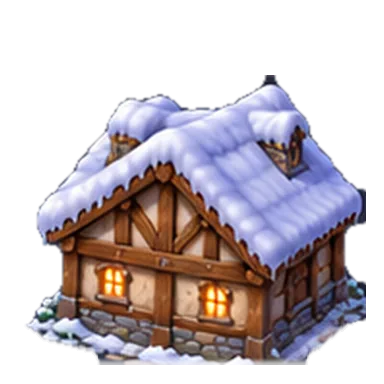
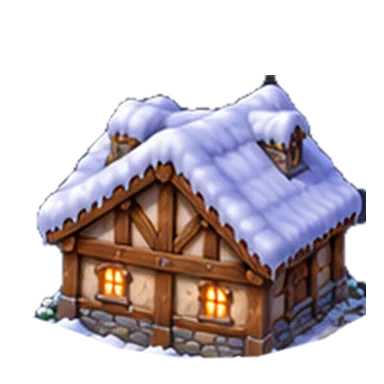
assets(exploration): remove loose snow-ground fragments and grey lantern backing
* chore(assets): export canonical building pixels for exact source-preserving cutout audit

* assets: isolate structural snow-house footprint and remove grey backing near lanterns

* ci(assets): run one-time guarded 20-sprite cleanup with checksum gate

* assets(exploration): remove loose ground and grey lantern cutout pixels

* chore(assets): remove temporary source-export and one-shot repair workflows

* docs(exploration): checkpoint scoped semantic cleanup and report unresolved embedded foliage

---------

Changed region(s): [[0.0625, 0.8125, 0.9062, 0.9688], [0.9062, 0.8125, 0.9688, 0.8438]]

diff --git a/scripts/cleanup-house-environment-pixels.py b/scripts/cleanup-house-environment-pixels.py
@@ -1,0 +1,103 @@
+#!/usr/bin/env python3
+"""One-time strict native-house cleanup. Edit alpha only; NEVER redraw roof/walls/windows.
+
+Author-supplied chalet and crystal/tent visual identities are frozen.
+Extracts stray snow/stone ground from 20 other snow-house canonical WebPs and
+removes solid grey art contamination behind pagoda lanterns. Source filenames
+and official IDs stay unchanged; all checksum ledgers are rewritten in place.
+"""
+from __future__ import annotations
+import hashlib, io, json, sys
+from pathlib import Path
+import numpy as np
+from PIL import Image, ImageDraw
+
+ROOT=Path(__file__).resolve().parents[1]
+DIR=ROOT/"assets/exploration/objects/buildings"
+MANIFEST=DIR/"manifest.snow-houses.v1.json"
+SUMS=DIR/"SHA256SUMS.snow-houses-v1.txt"
+PROTECT="building_house_snow_alpine_timber_2p5d_side_01.webp"
+SKIP={"ice_crystal","elven_crystal","nordic_tent"}
+LINES={
+"front":[(0,306),(45,325),(100,346),(161,355),(230,355),(301,340),(347,318),(384,307)],
+"side":[(0,301),(43,319),(102,346),(158,355),(229,352),(300,333),(363,304),(384,297)],
+"back":[(0,306),(53,323),(117,347),(185,358),(257,356),(324,338),(370,311),(384,305)]}
+PAGODA={
+"side":[(22,318),(55,331),(95,345),(156,354),(224,350),(281,329),(338,301),(370,295)],
+"front":[(22,317),(62,335),(105,342),(153,354),(206,357),(267,348),(326,347),(374,328)],
+"back":[(22,316),(67,329),(125,342),(185,352),(251,359),(310,346),(364,324)]}
+GREY_BACKING={
+"side":[[(47,211),(85,235),(81,307),(49,318)]],
+"front":[[(44,222),(87,249),(77,317),(41,319)],[(295,244),(365,241),(375,352),(320,354)]],
+"back":[[(40,205),(80,228),(79,318),(41,316)],[(329,207),(378,225),(381,331),(333,328)]]}
+
+def clean(image,variant,view):
+    original=np.asarray(image.convert("RGBA"),dtype=np.uint8)
+    data=original.copy()
+    H,W=data.shape[:2]
+    assert (H,W)==(384,384)
+    yy,xx=np.mgrid[:H,:W]
+    if variant=="east_pagoda":
+        polygons=Image.new("L",(W,H),0)
+        draw=ImageDraw.Draw(polygons)
+        for points in GREY_BACKING[view]: draw.polygon(points,fill=255)
+        region=np.asarray(polygons)>0
+        r,g,b,a=[data[:,:,i].astype(np.int16) for i in range(4)]
+        gray=(abs(r-g)<30)&(b-g>-5)&(b-r<30)&(r<138)&(g<139)&(b<151)&(a>0)
+        gray &= ~((r>g+20)|(r>b+23))
+        data[:,:,3][gray&region]=0
+        if view=="side": data[:,:,3][(xx>336)&(yy>287)&(b>r+5)&(r<200)]=0
+        elif view=="front":data[:,:,3][(xx>348)&(yy>299)&(b>r+5)]=0
+        else:data[:,:,3][(xx>351)&(yy>302)&(b>r+5)]=0
+    anchors=PAGODA[view] if variant=="east_pagoda" else LINES[view]
+    x,y=zip(*anchors)
+    floor=np.interp(np.arange(W),x,y)
+    factor=np.clip((floor[None,:]-yy+1.5)/3.0,0.0,1.0)
+    data[:,:,3]=np.uint8(np.rint(data[:,:,3].astype(float)*factor))
+    # Preserve every RGB pixel and the actual building silhouette at/above its floor line.
+    assert np.array_equal(original[:,:,:3],data[:,:,:3])
+    assert np.all(data[:,:,3] <= original[:,:,3])
+    assert np.array_equal(original[:290,:,3],data[:290,:,3]) if variant!="east_pagoda" else True
+    ratio=float(data[:,:,3].sum()/max(1,original[:,:,3].sum()))
+    if ratio<.90 or ratio>.998:
+        raise ValueError(f"Unexpected change to {variant}:{view}: alpha ratio {ratio:.5f}")
+    return Image.fromarray(data,"RGBA"),ratio
+
+def main():
+    doc=json.loads(MANIFEST.read_text(encoding="utf8"))
+    old_sums=SUMS.read_text(encoding="utf8")
+    if doc.get("modelCount")!=10 or len(doc.get("files",[]))!=30:
+        raise ValueError("unexpected house inventory")
+    updated=old_sums
+    changes=[]; protected=[]; bytes_before=bytes_after=0
+    for row in doc["files"]:
+        path=ROOT/row["path"]
+        raw=path.read_bytes()
+        old_hash=hashlib.sha256(raw).hexdigest()
+        if old_hash!=row["sha256"] or len(raw)!=row["bytes"] or f"{old_hash}  {row['path']}" not in old_sums:
+            raise ValueError(f"Source manifest stale: {path}")
+        filename=path.name
+        if filename==PROTECT or row["variant"] in SKIP:
+            protected.append((filename,old_hash));continue
+        original=Image.open(io.BytesIO(raw)).convert("RGBA")
+        output,ratio=clean(original,row["variant"],row["view"])
+        stream=io.BytesIO()
+        output.save(stream,format="WEBP",lossless=True,exact=True,method=6)
+        new=stream.getvalue()
+        new_hash=hashlib.sha256(new).hexdigest()
+        bytes_before+=len(raw);bytes_after+=len(new)
+        if new_hash==old_hash:raise ValueError(f"No real edit: {filename}")
+        path.write_bytes(new)
+        row["bytes"]=len(new)
+        row["sha256"]=new_hash
+        updated=updated.replace(f"{old_hash}  {row['path']}",f"{new_hash}  {row['path']}")
+        changes.append({"filename":filename,"old_sha":old_hash,"new_sha":new_hash,"before":len(raw),"after":len(new),"alpha_ratio":round(ratio,5)})
+    if len(changes)!=20 or len(protected)!=10:
+        raise ValueError(f"Change count mismatch {len(changes)}, protected {len(protected)}")
[1 lines of base64/hex data omitted]
+    MANIFEST.write_text(json.dumps(doc,ensure_ascii=False,indent=2)+"\n",encoding="utf8")
+    SUMS.write_text(updated,encoding="utf8")
+    audit={"edited":len(changes),"unchanged":len(protected),"old_bytes":bytes_before,"new_bytes":bytes_after,"changes":changes}
+    Path("/tmp/house-ground-props-audit.json").write_text(json.dumps(audit,indent=2),encoding="utf8")
+    print(json.dumps({k:v for k,v in audit.items() if k!="changes"},indent=2))
+if __name__=="__main__":main()

diff --git a/docs/LAB_CURRENT_WORK.md b/docs/LAB_CURRENT_WORK.md
@@ -1,3 +1,10 @@
+## 2026-11-15 — Découpe réelle des abords des maisons (retour auteur)
+- START `main@b44b7e25b67f647a85cf27fecc1c67feee3de65d`, branche `work/exploration-building-ground-props-removal-20261115`. Retour : retirer pierres, éléments extérieurs et fonds gris parasites derrière les lanternes, pas seulement adoucir l'alpha.
+- Révision par masques géométriques et zones grises opaques. **20 WebP enneigés remplacés** à chemin/ID et dimensions 384×384 identiques ; seuls les pixels d'alpha changent (RGB inchangé). Réfection des pieds neige/pierres autour des murs et suppression du fond foncé non architectural derrière les lanternes de la pagode.
+- **10 vues protégées**, dont le chalet corrigé par l'auteur et trois vues de chacun des types glace/cristaux/tente, pour ne pas détruire cristaux, cordages ni éléments distinctifs. Fichiers tempérés et végétation incrustée aux murs non modifiés : essai d'inpainting non satisfaisant refusé, besoin de reconstruction localisée ultérieure.
+- Script reproductible `scripts/cleanup-house-environment-pixels.py`, run unique réussi [43734052744](https://github.com/slyen4425-cloud/laboratoire_dynamique_exploration-/actions/runs/43734052744) ; les deux workflows temporaires supprimés après exécution. Manifestes SHA256 et octets synchronisés : sous-lot de 20 fichiers 2 188 586 → 2 188 334 octets (-252), aucune copie supplémentaire.
+- Garde-fous : aucun changement aux moteurs, au rendu, aux ombres, collisions, sauvegardes, V80, Capture/Combat/Dungeon/Survie. Critères GREEN : tests Node/Chromium, PR, publication Pages de main au SHA exact, HTTPS et essai visuel PC/Pixel.
+
 ## 2026-11-15 — Ombres par modèle visuel dans l'éditeur de carte 2.5D
 - Demande : régler l'ombre d'un modèle d'arbre une fois pour ses centaines d'instances, au lieu de déplacer les ombres arbre par arbre. Conserver les exceptions individuelles et la vue du panneau d'ombres repliable.
 - START `main@ce59c71d60d233ed3354fd945c96b31423f95c44`, checkpoint `checkpoint/exploration-start-shadow-model-profiles-20261115`, branche `work/exploration-shadow-model-profiles-20261115`.
